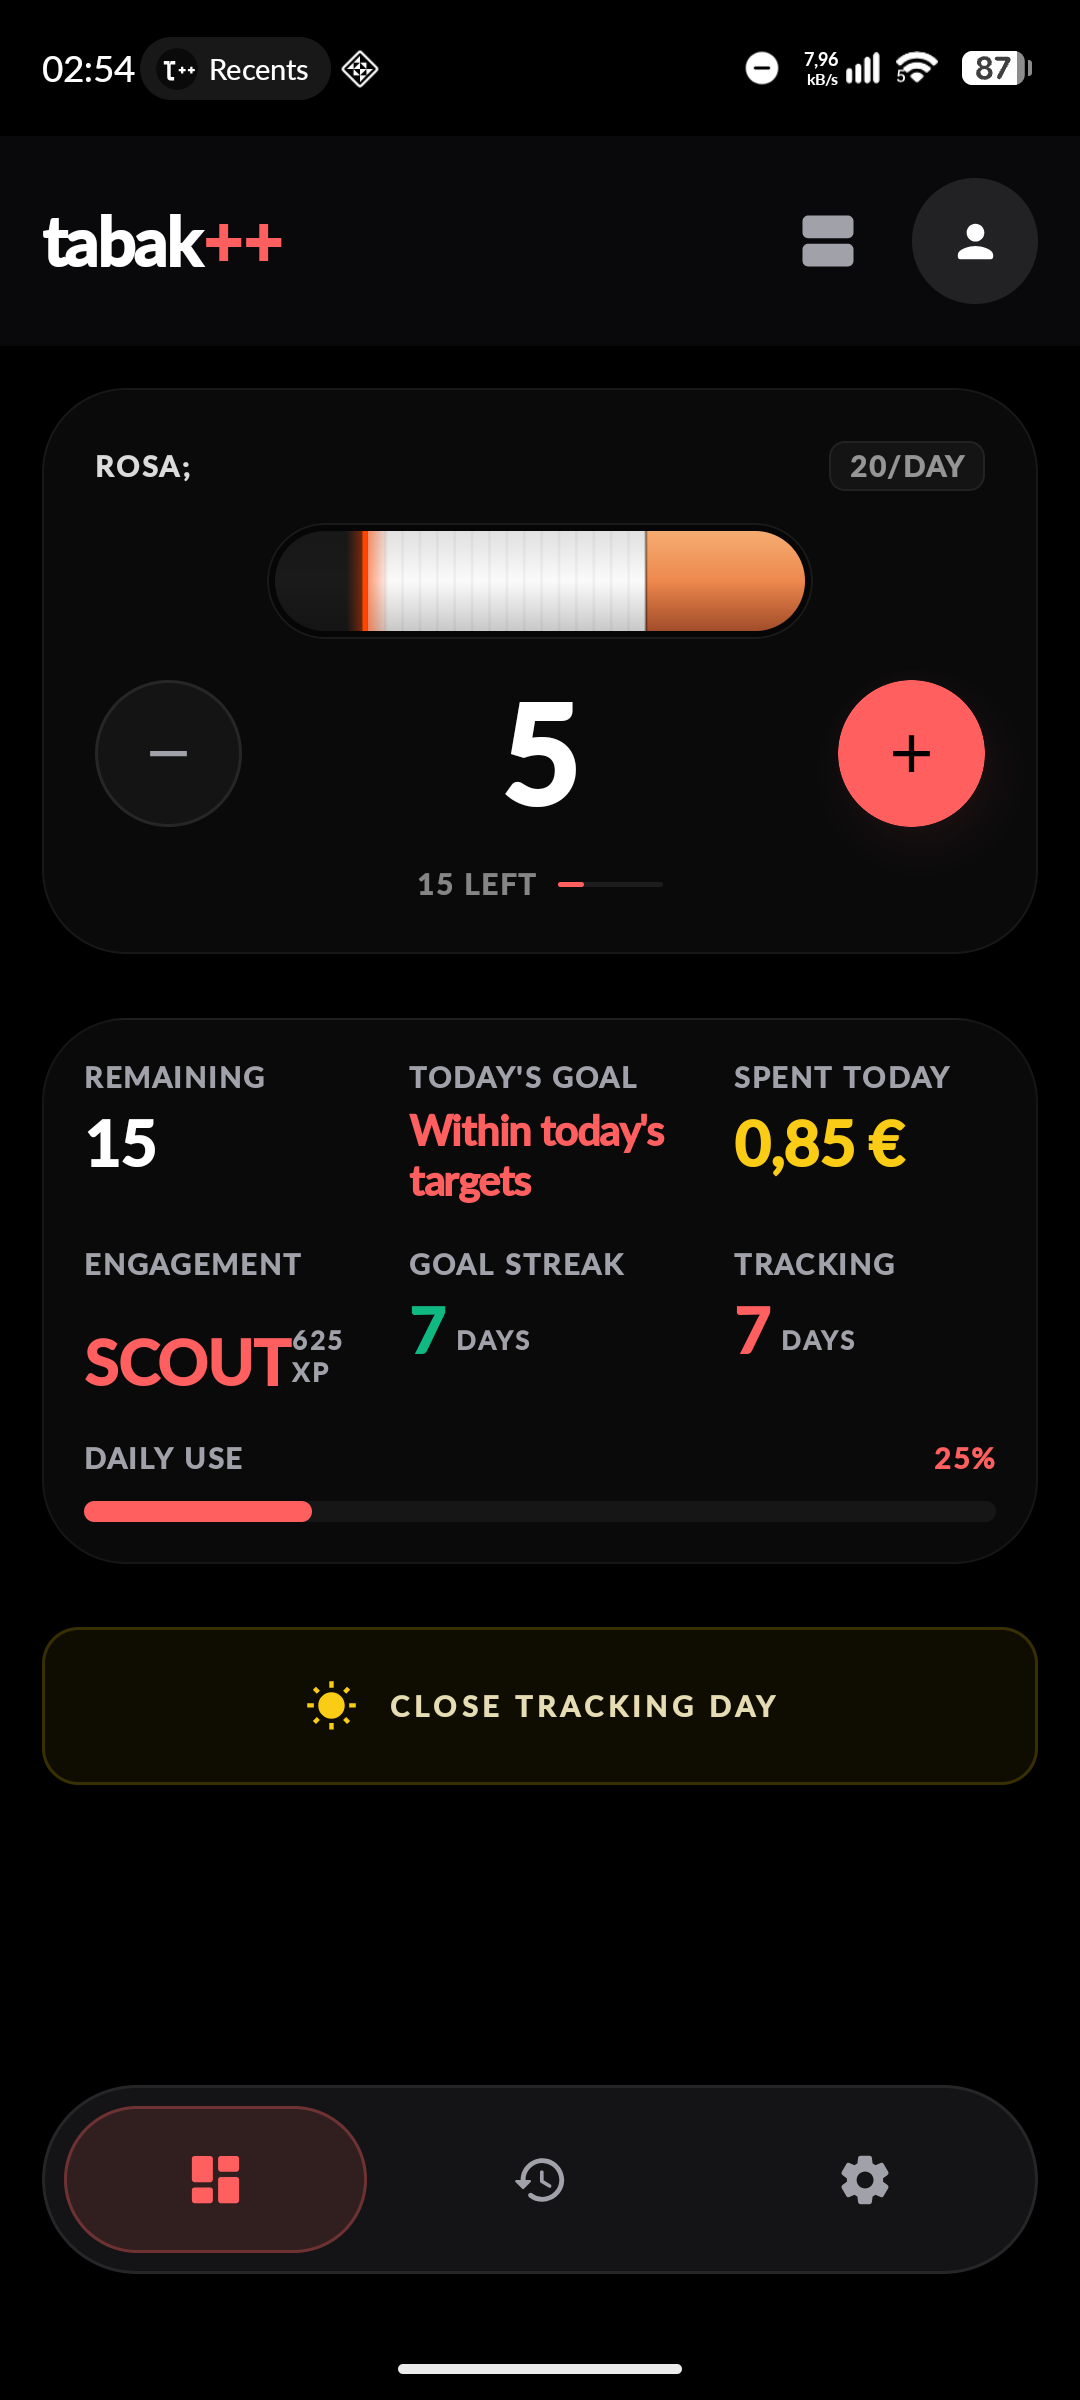
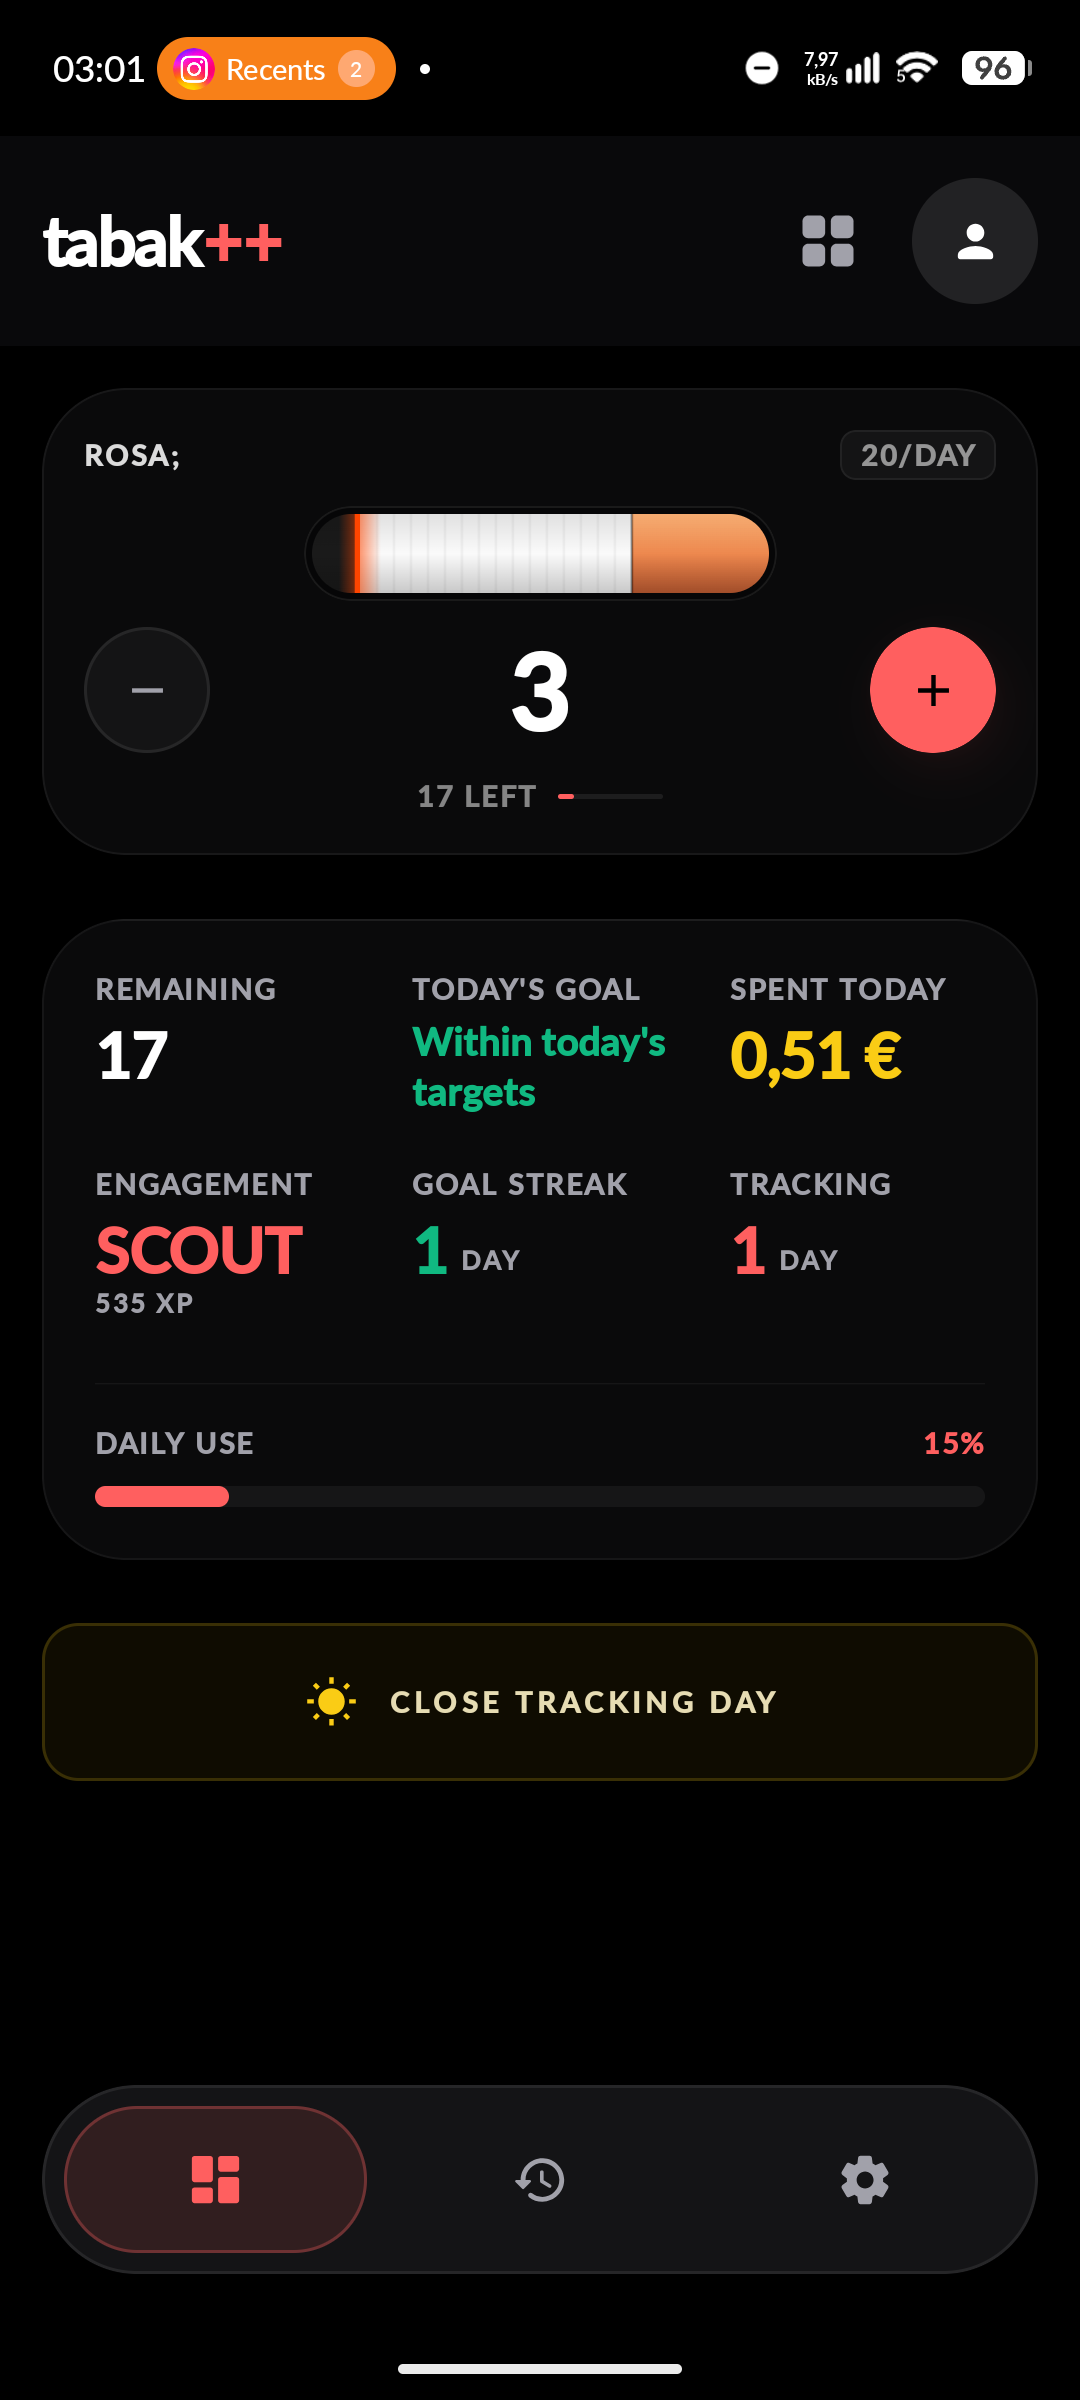
docs(readme): refresh Android screenshots after UI polish
Recaptured Track, History and Settings on a Pixel 7 (Signal red) with
scripts/android-screenshots.ps1 and rebuilt the showcase set. The profile
card in Settings is blurred. The showcase crop now removes the whole
status bar instead of leaving a sliver of clock and notification chips.

diff --git a/scripts/build-showcase-shots.py b/scripts/build-showcase-shots.py
@@ -27,7 +27,7 @@ for name in ("track", "history", "settings"):
         raise SystemExit(f"missing {f} — connect device and run scripts/android-screenshots.ps1")
     img = Image.open(f).convert("RGB")
     w, h = img.size
-    top = int(h * 0.035)
+    top = int(h * 0.056)  # drop the whole status bar (clock, notification chips)
     bottom = int(h * 0.965)
     img = img.crop((0, top, w, bottom))
     w, h = img.size
